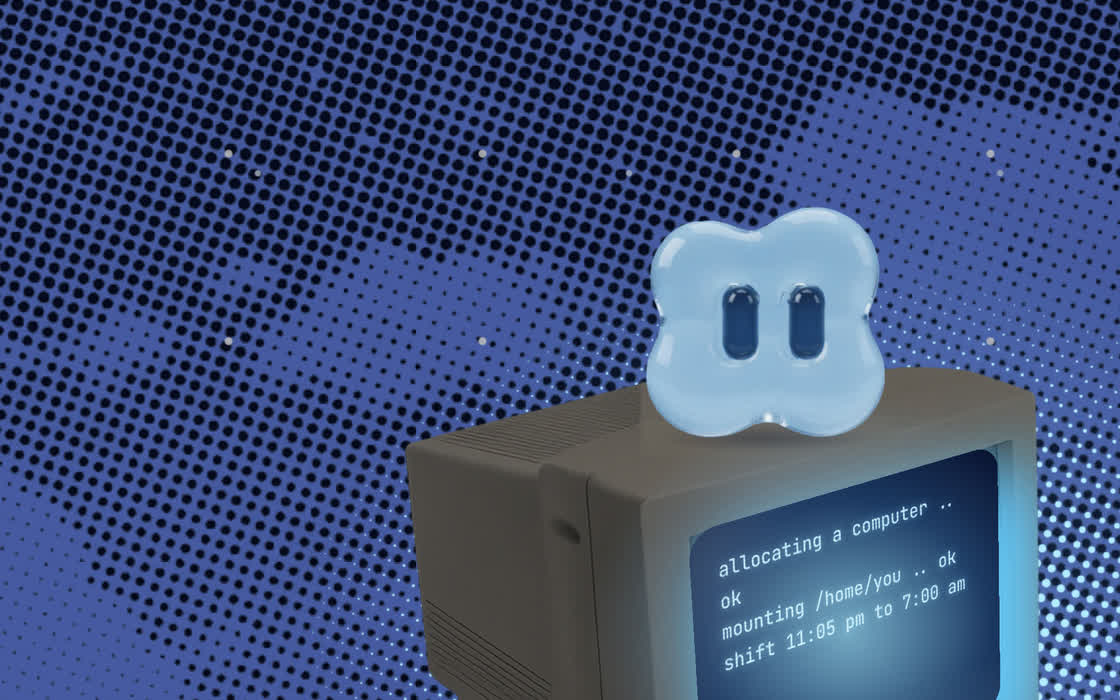
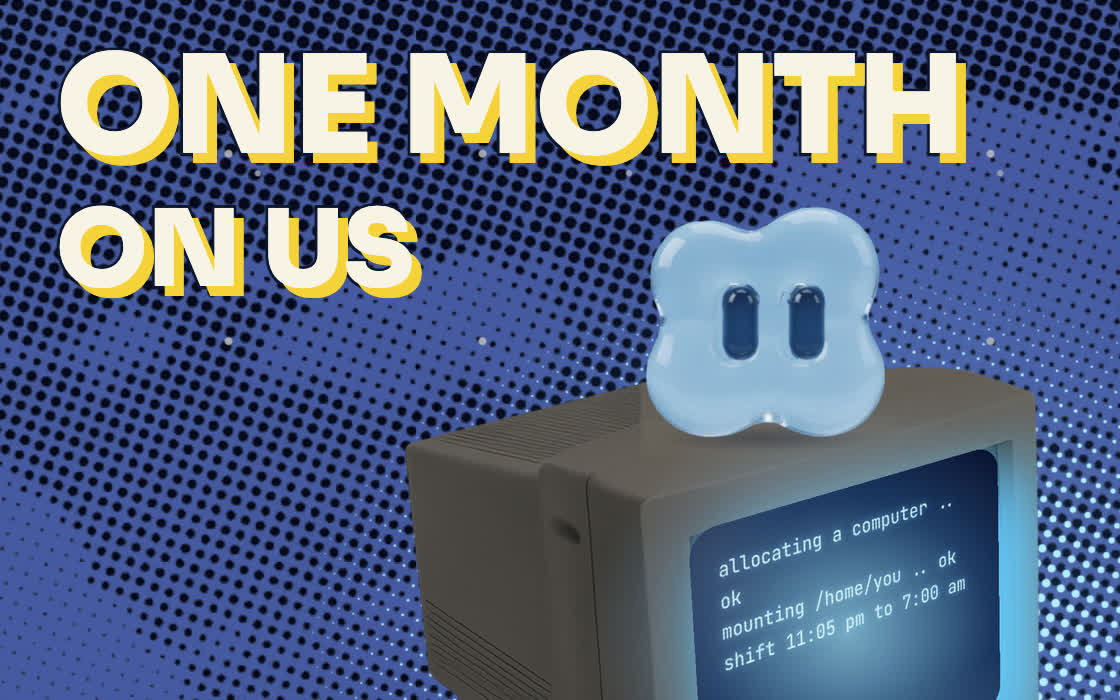
Plainer copy in the show, and "One month on us" in the email and pass
The show drops its quips ("Classic.", "Mysterious. I respect that.",
"Nice try.", "0 coffees", "the shift you don't") for plain lines that
say what happens, and the pass no longer promises "no card". The claim
email's hero now carries "One month on us" in the show's poster type,
served under a new image version, and the pass headline matches it,
set top-heavy on two lines.

Changed region(s): [[0.0312, 0.06, 0.875, 0.24], [0.0312, 0.27, 0.375, 0.45]]

diff --git a/app/features/night-shift/night-shift.ts b/app/features/night-shift/night-shift.ts
@@ -154,7 +154,7 @@ export function mountNightShift(board: HTMLElement, env: ShowEnv): () => void {
       <h1 class="ns-title ptype"></h1>
       <div class="ns-pips" hidden>${"<i></i>".repeat(5)}</div>
       <div class="ns-pile"></div>
-      <div class="ns-spec">Runs on ....... its own computer\nRemembers ..... what it learned\nWorks ......... the shift you don't</div>
+      <div class="ns-spec">Runs on ....... its own computer\nRemembers ..... what it learned\nWorks ......... while you sleep</div>
       <div class="ns-caption" hidden aria-live="polite"><div class="ns-cap-time"></div><div class="ns-cap-line"></div></div>
       <a class="ns-badge" href="${esc(productHuntHref("x-show", "daily"))}" target="_blank" rel="noopener" tabindex="-1" aria-label="${esc(PH_DAILY_AWARD)} on Product Hunt">${PH_MARK}<span><small>Product Hunt</small><b>${esc(PH_DAILY_AWARD)}</b></span></a>
       <div class="ns-url">construct.computer</div>
@@ -638,7 +638,7 @@ export function mountNightShift(board: HTMLElement, env: ShowEnv): () => void {
       const choice = await untilTap([...body.querySelectorAll(".chip")], signal, { timeoutMs: 8000, fallback: 1 });
       env.track("ask_choice", { choice: choice === 0 ? "now" : "sleep" });
       squash(mascot);
-      await say(choice === 0 ? "Nice try. It can wait until 7, and so can you." : "Good call. I'll keep it on the note.");
+      await say(choice === 0 ? "It can wait. I'll ask you at 7." : "I'll keep it on the note for 7.");
       await W(1700);
       await bubble.hide(signal);
       qm.remove();
@@ -754,10 +754,10 @@ export function mountNightShift(board: HTMLElement, env: ShowEnv): () => void {
     if (here.night) {
       setTod("dusk");
       await raiseTitle([here.time.toUpperCase()], TITLE_W_DAY);
-      await say(`Oh, hi. It's ${here.time} in ${esc(here.city)}, and you're still at it.`);
+      await say(`It's ${here.time} in ${esc(here.city)} and you're still working.`);
     } else {
       await raiseTitle([here.time.toUpperCase()], TITLE_W_DAY);
-      await say(`Oh, hi. It's ${here.time} in ${esc(here.city)}. Too early for a night shift, so let's skip ahead.`);
+      await say(`It's ${here.time} in ${esc(here.city)}. Let's skip ahead to tonight.`);
       await W(1600);
       setTod("dusk");
       let mins = here.hours * 60 + here.minutes;
@@ -771,13 +771,13 @@ export function mountNightShift(board: HTMLElement, env: ShowEnv): () => void {
     }
     await W(1700);
     const b1 = await say(
-      `Is your to-do list done for today?<div class="chips"><button class="chip" type="button">Not even close</button><button class="chip alt" type="button">What to-do list?</button></div>`,
+      `Is today's list done?<div class="chips"><button class="chip" type="button">Not even close</button><button class="chip alt" type="button">Almost</button></div>`,
       "left",
       480,
     );
     const listAnswer = await untilTap([...b1.querySelectorAll(".chip")], signal, { timeoutMs: 9000 });
     squash(mascot);
-    await say(listAnswer === 0 ? "Classic. Hand it to me before you open a sixth tab." : "The one you'll suddenly remember at 3 am. Hand it to me now.");
+    await say(listAnswer === 0 ? "Then hand it to me. I'll work through it tonight." : "Then hand me the rest. I'll finish it tonight.");
     await W(2100);
     await bubble.hide(signal);
 
@@ -830,7 +830,7 @@ export function mountNightShift(board: HTMLElement, env: ShowEnv): () => void {
     env.begin(name);
     env.track("named", { given: Boolean(name) });
     squash(mascot);
-    await say(name ? `Nice to meet you, ${esc(name)}. Now pull the chain and go to bed.` : "Mysterious. I respect that. Now pull the chain and go to bed.");
+    await say(name ? `Thanks, ${esc(name)}. Pull the chain and get some sleep.` : "Pull the chain and get some sleep.");
     await pullChain();
     env.track("lights_out");
 
@@ -919,7 +919,7 @@ export function mountNightShift(board: HTMLElement, env: ShowEnv): () => void {
     // 5. Dawn.
     dots(5);
     screenOff();
-    await showCaption(clockLabel(3, 0), "The rest of the night is quiet. That's the point.");
+    await showCaption(clockLabel(3, 0), "By 3 am the list is done. One question waits for 7.");
     for (const [h, tod] of [
       [3, "night"],
       [4, "night"],
@@ -974,7 +974,7 @@ export function mountNightShift(board: HTMLElement, env: ShowEnv): () => void {
       pip(i, "done");
       await W(90);
     }
-    setLine("One tap from you, and the list is done before your coffee.");
+    setLine("One tap from you and the whole list is done.");
     await W(2600);
     await surface();
 
@@ -1115,17 +1115,17 @@ export function mountNightShift(board: HTMLElement, env: ShowEnv): () => void {
     // The offer is a pass you tear off, in the poster's own colours: the top
     // says what you get, the stub below the perforation takes the email.
     const card = el("div", "pass");
-    const who = name ? `${esc(name)}, same` : "Same";
+    const who = name ? `${esc(name)}, want` : "Want";
     card.innerHTML = `<div class="pass-top">
         <div class="pass-kicker">NIGHT SHIFT PASS · NO. 04821</div>
-        <div class="pass-big">First month<br>free</div>
-        <div class="pass-sub">${who} time tomorrow? Tell me where to send the morning report.</div>
-        <div class="pass-meta">5 jobs · 1 question · 0 coffees</div>
+        <div class="pass-big"><span class="pass-big-top">One month</span><span class="pass-big-sub">on us</span></div>
+        <div class="pass-sub">${who} this on your real list tonight? I'll email you the code.</div>
+        <div class="pass-meta">5 jobs done · 1 question for you</div>
       </div>
       <div class="pass-stub">
         <input class="pass-field" id="ns-email" type="email" autocomplete="email" enterkeyhint="send" placeholder="you@company.com" aria-label="Your email"><button class="pass-go wide" type="button">Claim my free month</button>
         <div class="pass-err" role="alert"></div>
-        <div class="pass-fine">Pro, free for 30 days. No card, leave anytime.</div>
+        <div class="pass-fine">Your first month free on any plan. Cancel anytime.</div>
       </div>`;
     w.appendChild(card);
     await tween(card, [{ transform: "translate(420px, 40px) rotate(14deg)", opacity: 0 }, { transform: "none", opacity: 1 }], { duration: 760, easing: EASE_SPRING }, signal);
@@ -1152,7 +1152,7 @@ export function mountNightShift(board: HTMLElement, env: ShowEnv): () => void {
         err.textContent = result.message;
         return;
       }
-      card.querySelector(".pass-sub")!.textContent = `See you tonight${name ? `, ${name}` : ""}. I'll be on shift at 11.`;
+      card.querySelector(".pass-sub")!.textContent = "Check your inbox for the code and how to start.";
       const stamp = el("div", "pass-stamp", "CLAIMED");
       card.querySelector(".pass-top")!.appendChild(stamp);
       stamp.animate([{ transform: "scale(2.6)", opacity: 0 }, { transform: "scale(1)", opacity: 1 }], { duration: 420, easing: EASE_SPRING });

diff --git a/functions/claim-email.ts b/functions/claim-email.ts
@@ -21,7 +21,7 @@ const DEFAULT_FROM = "hello@construct.computer";
 const DEFAULT_FROM_NAME = "Construct";
 // Bump when either image changes: mail clients and their image proxies cache
 // by URL, so a new version is the only way to replace one already fetched.
-const ASSET_VERSION = "1";
+const ASSET_VERSION = "2";
 const HERO = `${SITE}/assets/email/night-shift.jpg?v=${ASSET_VERSION}`;
 const ICON = `${SITE}/assets/email/construct-icon.png?v=${ASSET_VERSION}`;
 const ADDRESS = "2261 Market Street STE 68707, San Francisco, CA 94114";
@@ -152,7 +152,7 @@ a{color:#2a44a8;}
 <tr><td align="center" class="outer" style="padding:32px 16px 40px;">
 <table role="presentation" width="560" cellpadding="0" cellspacing="0" border="0" style="width:100%;max-width:560px;background:#ffffff;border:1px solid ${line};border-radius:16px;border-collapse:separate;">
 <tr><td style="padding:0;line-height:0;font-size:0;">
-<img src="${HERO}" width="560" height="350" alt="Construct's mascot on a glowing monitor at night" style="display:block;width:100%;max-width:560px;height:auto;border-radius:16px 16px 0 0;">
+<img src="${HERO}" width="560" height="350" alt="One month on us. Construct's mascot on a glowing monitor at night." style="display:block;width:100%;max-width:560px;height:auto;border-radius:16px 16px 0 0;">
 </td></tr>
 <tr><td class="px" style="padding:30px 36px 32px;">
 <table role="presentation" cellpadding="0" cellspacing="0" border="0"><tr>

diff --git a/e2e/shows.spec.ts b/e2e/shows.spec.ts
@@ -11,7 +11,7 @@ test("Night Shift wakes up, takes the list and goes dark when the chain is pulle
   await page.goto("/embed/?src=e2e");
   await page.getByRole("button", { name: "Wake it up and start the night shift" }).click();
 
-  await expect(page.getByText("Is your to-do list done for today?")).toBeVisible({ timeout: 12_000 });
+  await expect(page.getByText("Is today's list done?")).toBeVisible({ timeout: 12_000 });
   await page.getByRole("button", { name: "Not even close" }).click();
 
   await page.getByRole("button", { name: "Score the 40 new leads" }).click({ timeout: 12_000 });
@@ -19,7 +19,7 @@ test("Night Shift wakes up, takes the list and goes dark when the chain is pulle
 
   await page.getByLabel("Your first name").fill("ada", { timeout: 12_000 });
   await page.getByRole("button", { name: "That's me" }).click();
-  await expect(page.getByText(/Nice to meet you, Ada/)).toBeVisible();
+  await expect(page.getByText(/Thanks, Ada/)).toBeVisible();
 
   // The chain has to be pulled down, not clicked.
   const bead = page.getByRole("button", { name: "Pull the chain to turn off the light" });

diff --git a/app/features/night-shift/night-shift.css b/app/features/night-shift/night-shift.css
@@ -1345,6 +1345,9 @@ button.chk:active { transform: scale(.99); }
   paint-order: stroke fill;
   text-shadow: 5px 5px 0 var(--ink);
 }
+/* The headline is top-heavy: the first line is the longest and the largest. */
+.pass-big-top { display: block; font-size: 48px; white-space: nowrap; }
+.pass-big-sub { display: block; font-size: 38px; margin-top: 2px; }
 .pass-sub {
   margin-top: 14px;
   font-family: var(--f-story);
